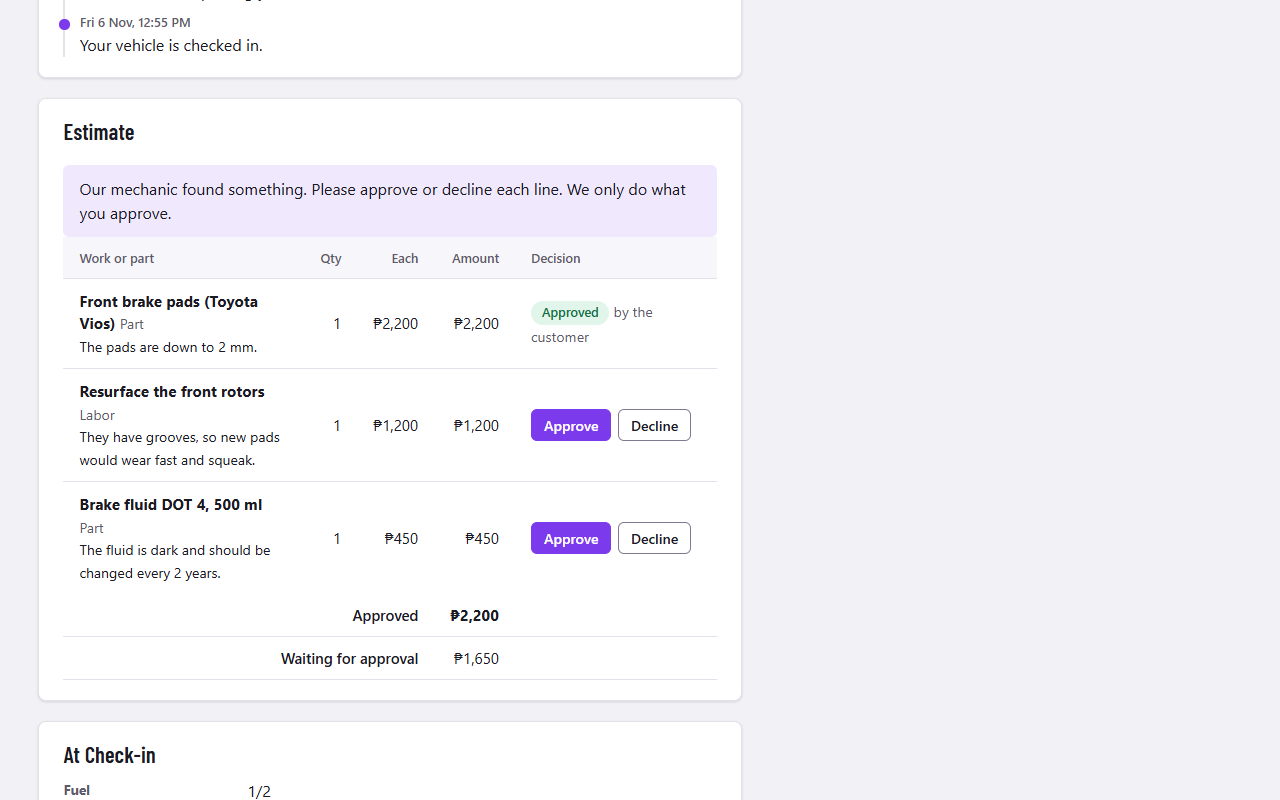
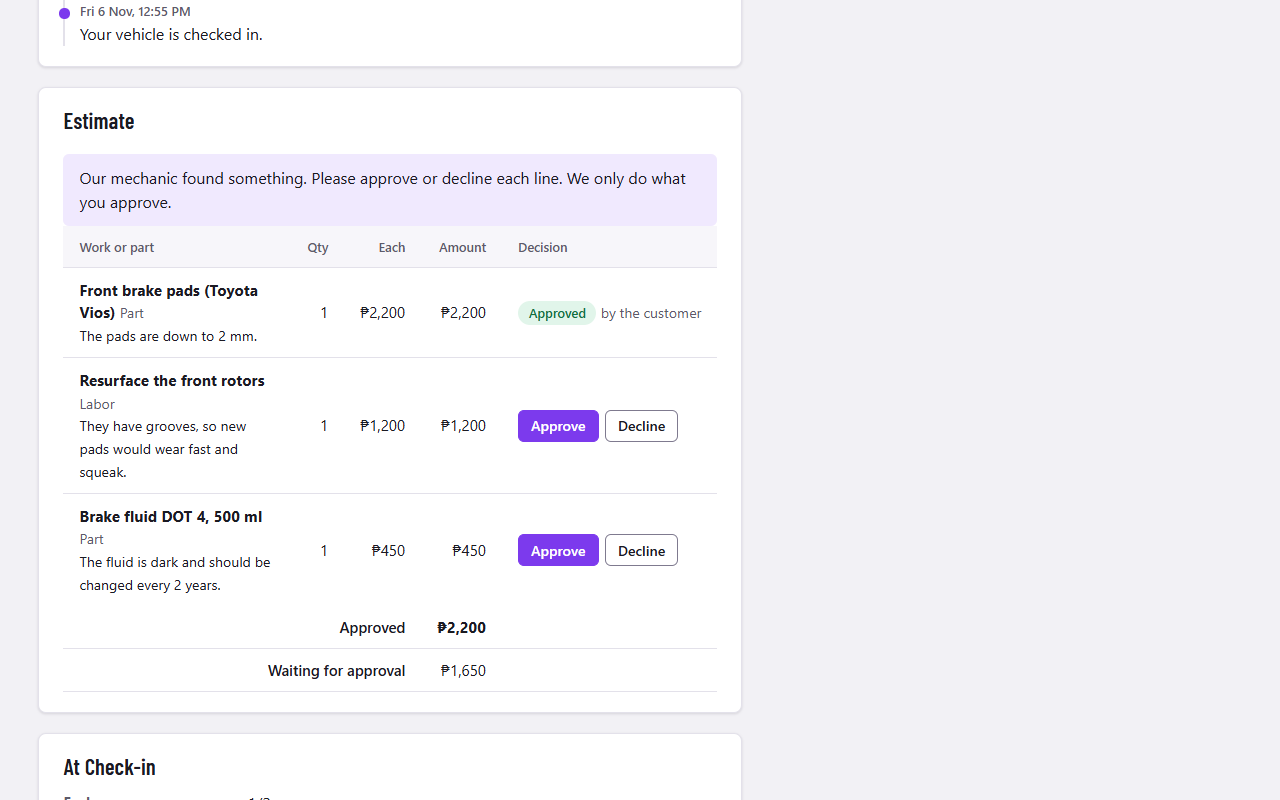
Polish the mechanics', customers' and advisors' pages too
- Pills say who must act from the viewer's side: red means you, blue
  means the other side. A customer's Other Service is blue while it's
  being checked and red when its price waits for them (it was the other
  way round, the staff's colors).
- My Garage: "New time to confirm", "Price to confirm" and the vehicle
  "Waiting for your approval" are red and open the right part of the
  booking; "Move requested" is blue. Rows light up on hover.
- The customer's waitlist page: an offered time shows the minutes left
  and the same draining bar the desk sees.
- The job page (mechanics and the desk): Remove sits on its estimate line,
  in red, and asks first, instead of a loose list of links under the
  table. A mechanic is told the front desk records phone answers.
- Service advisors see the owner's pages, so they have this PR's polish
  already.

A demo test checks each role's pages. 286 tests on SQLite.

diff --git a/shiromoto/templates/garage.html b/shiromoto/templates/garage.html
@@ -12,8 +12,8 @@
     {% set price = item.quote_status == 'priced' and item.status == 'booked' %}
     {% if new_time or price %}
       <span class="pill-group">
-        {% if new_time %}<a class="pill job-awaiting_approval" href="{{ url_for('bookings.show', ref=item.ref) }}#move-request">{{ 'New time to confirm' if item.move_by == 'shop' else 'Move requested' }}</a>{% endif %}
-        {% if price %}<a class="pill job-awaiting_approval" href="{{ url_for('bookings.show', ref=item.ref) }}#other-service">Price to confirm</a>{% endif %}
+        {% if new_time %}<a class="pill {{ 'pill-urgent' if item.move_by == 'shop' else 'pill-calm' }}" href="{{ url_for('bookings.show', ref=item.ref) }}#move-request">{{ 'New time to confirm' if item.move_by == 'shop' else 'Move requested' }}</a>{% endif %}
+        {% if price %}<a class="pill pill-urgent" href="{{ url_for('bookings.show', ref=item.ref) }}#other-service">Price to confirm</a>{% endif %}
       </span>
     {% else %}
       <span class="pill pill-{{ item.status }}">{{ STATUS_LABELS[item.status] }}</span>
@@ -99,7 +99,11 @@
                   <a class="row-title" href="{{ url_for('bookings.show', ref=item.ref) }}">{{ item.vehicle.label }}</a>
                   <span class="muted small">{{ item.lines|map(attribute='name')|join(' + ') }} · {{ item.ref }}</span>
                 </div>
-                <span class="pill job-{{ item.job.status }}">{{ JOB_LABELS[item.job.status] }}</span>
+                {% if item.job.status == 'awaiting_approval' %}
+                  <a class="pill pill-urgent" href="{{ url_for('bookings.show', ref=item.ref) }}#estimate">Waiting for your approval</a>
+                {% else %}
+                  <span class="pill job-{{ item.job.status }}">{{ JOB_LABELS[item.job.status] }}</span>
+                {% endif %}
               </li>
             {% endfor %}
           </ul>

diff --git a/shiromoto/static/style.css b/shiromoto/static/style.css
@@ -785,7 +785,7 @@ a.tl-block:hover { box-shadow: 0 0 0 2px var(--accent); color: var(--ink); text-
 .estimate tfoot th { color: var(--ink); background: none; font-size: .92rem; }
 .estimate tr.line-declined td { color: var(--ink-soft); }
 .estimate tr.line-declined strong { text-decoration: line-through; }
-.decide-form { display: flex; gap: .4rem; margin: 0; }
+.decide-form { display: inline-flex; gap: .4rem; margin: 0; vertical-align: middle; }
 .line-pill-approved { background: var(--ok-soft); color: var(--ok-ink); border-color: transparent; }
 .line-pill-declined { background: var(--surface-soft); color: var(--ink-soft); }
 .line-pill-proposed { background: var(--warning-soft); color: var(--warning-ink); border-color: transparent; }
@@ -851,3 +851,11 @@ g[data-tip]:hover .chart-bar { fill: var(--accent-hover); }
 .roomy-form { gap: 1.1rem; }
 .roomy-form .form-grid { row-gap: 1rem; }
 .low-stock li { display: flex; flex-wrap: wrap; align-items: center; justify-content: space-between; gap: .4rem 1rem; padding: .35rem 0; }
+
+/* The customer's waitlist offer, and Remove on an estimate line. */
+.offer-left-wide { width: 100%; max-width: 22rem; height: .5rem; margin: 0 0 1rem; }
+.line-remove { display: inline-flex; margin-left: .4rem; vertical-align: middle; }
+.estimate td:last-child { white-space: nowrap; }
+.line-remove .link-button { color: var(--danger); }
+/* My Garage rows light up like table rows. */
+.row-list li:has(> .row-main > a.row-title):hover { background: var(--row-hover); box-shadow: 0 0 0 .5rem var(--row-hover); border-radius: 2px; }

diff --git a/shiromoto/templates/jobs/job.html b/shiromoto/templates/jobs/job.html
@@ -31,12 +31,9 @@
   <section class="card" id="estimate">
     <h2>Estimate</h2>
     {{ estimate(job, decide_url, staff=True) }}
-    {% for line in job.lines if line.status == 'proposed' %}
-      {% if loop.first %}<p class="small muted">The customer approves from their booking page. If they say yes or no on the phone, use the buttons above.</p>{% endif %}
-      <form method="post" action="{{ url_for('jobs.remove_line', job_id=job.id, line_id=line.id) }}" class="inline-action">
-        {{ csrf() }}<button class="link-button small" type="submit">Remove “{{ line.description }}”</button>
-      </form>
-    {% endfor %}
+    {% if job.lines|selectattr('status', 'equalto', 'proposed')|list %}
+      <p class="small muted">The customer approves from their booking page.{% if decide_url %} If they say yes or no on the phone, use the buttons above.{% else %} The front desk can record a phone answer.{% endif %}</p>
+    {% endif %}
     {% for line in job.lines if line.status == 'approved' and line.part_id and not line.stock_taken %}
       <form method="post" action="{{ url_for('jobs.take_part', job_id=job.id, line_id=line.id) }}" class="inline-action">
         {{ csrf() }}<button class="button button-small button-quiet" type="submit">The part is here: take {{ line.quantity }} from stock</button>

diff --git a/shiromoto/templates/_macros.html b/shiromoto/templates/_macros.html
@@ -13,7 +13,8 @@
 {# The Other Service's price, as a pill: staff and the customer each see it from their side. #}
 {% macro quote_pill(status, for_customer=False) -%}
   {%- set customer_labels = {'to_price': 'Being checked', 'priced': 'Price to confirm', 'accepted': 'Confirmed', 'declined': 'Declined'} -%}
-  <span class="pill {{ {'to_price': 'pill-urgent', 'priced': 'pill-calm', 'accepted': 'pill-booked', 'declined': 'pill-off'}[status] }}">{{ customer_labels[status] if for_customer else QUOTE_LABELS[status] }}</span>
+  {%- set colors = {'to_price': 'pill-calm', 'priced': 'pill-urgent'} if for_customer else {'to_price': 'pill-urgent', 'priced': 'pill-calm'} -%}
+  <span class="pill {{ colors.get(status) or {'accepted': 'pill-booked', 'declined': 'pill-off'}[status] }}">{{ customer_labels[status] if for_customer else QUOTE_LABELS[status] }}</span>
 {%- endmacro %}
 
 {# Small line icons (inline SVG, drawn with CSS: no inline styles). #}

diff --git a/shiromoto/templates/waitlist.html b/shiromoto/templates/waitlist.html
@@ -10,7 +10,9 @@
     <section class="card">
       {% if entry.status == 'offered' %}
         <p class="held-when">A time opened up for you!</p>
-        <p>We're keeping it until {{ entry.offer_expires_at|local_time(shop.timezone) }}.</p>
+        {% set left = [((entry.offer_expires_at - now).total_seconds())|int, 0]|max %}
+        <p>We're keeping it until {{ entry.offer_expires_at|local_time(shop.timezone) }} ({{ left // 60 }} min left).</p>
+        <progress class="offer-left offer-left-wide" max="{{ offer_seconds }}" value="{{ left }}" data-drain aria-label="Time left to book it">{{ left // 60 }} min left</progress>
         <p><a class="button" href="{{ url_for('book.details', token=entry.hold_token) }}">See the time and book it</a></p>
       {% elif entry.status == 'waiting' %}
         <p>{{ 'Others joined before you, so they get the first times that open up.' if ahead else "You're first in line." }}

diff --git a/shiromoto/templates/_job.html b/shiromoto/templates/_job.html
@@ -42,6 +42,11 @@
                   <span class="pill line-pill-{{ line.status }}">{{ LINE_LABELS[line.status] }}</span>
                   {% if line.decided_by %}<span class="muted small">by {{ line.decided_by }}</span>{% endif %}
                 {% endif %}
+                {% if staff and line.status == 'proposed' %}
+                  <form method="post" action="{{ url_for('jobs.remove_line', job_id=job.id, line_id=line.id) }}" class="line-remove" data-confirm="Take “{{ line.description }}” off the estimate?">
+                    {{ csrf() }}<button class="link-button small" type="submit">Remove<span class="visually-hidden"> {{ line.description }}</span></button>
+                  </form>
+                {% endif %}
               </td>
             </tr>
           {% endfor %}

diff --git a/tests/test_demo.py b/tests/test_demo.py
@@ -8,7 +8,7 @@ from sqlalchemy import func, select
 
 from shiromoto import auth, db
 from shiromoto.dates import utcnow
-from shiromoto.models import Appointment, Bay, Customer, Job, Part, Service, Shop, User, Vehicle
+from shiromoto.models import Appointment, Bay, Customer, Job, Part, Service, Shop, User, Vehicle, WaitlistEntry
 
 from .conftest import CSRF, PASSWORD, find, post
 
@@ -274,3 +274,21 @@ def test_the_owners_pages_after_the_polish(app, demo):
     assert "tl-tick" in board and "Lunch break or closed" in board
     waitlist = demo.get("/desk/waitlist").get_data(as_text=True)
     assert "Offered a time" in waitlist and "data-drain" in waitlist  # Dan's offer, draining
+
+
+def test_the_other_roles_pages_after_the_polish(app, demo):
+    """Pills say who must act from the viewer's side, a mechanic removes a line on the
+    line itself, and the customer's waitlist offer drains too."""
+    shop_id = visitor(demo).shop_id
+    view_as(demo, person(app, shop_id, "mechanic"))
+    job = find(app, Job, Job.shop_id == shop_id, Job.status == "awaiting_approval")[0]
+    page = demo.get(f"/jobs/{job.id}").get_data(as_text=True)
+    assert 'class="line-remove"' in page and "The front desk can record a phone answer." in page
+    view_as(demo, person(app, shop_id, "customer"))
+    garage = demo.get("/garage").get_data(as_text=True)
+    assert "Waiting for your approval" in garage and "pill pill-urgent" in garage and "pill pill-calm" in garage
+    priced = find(app, Appointment, Appointment.shop_id == shop_id, Appointment.quote_status == "priced")[0]
+    assert 'pill pill-urgent">Price to confirm' in demo.get(f"/b/{priced.ref}").get_data(as_text=True)
+    dan = find(app, WaitlistEntry, WaitlistEntry.shop_id == shop_id, WaitlistEntry.status == "offered")[0]
+    page = demo.get(f"/waitlist/{dan.token}").get_data(as_text=True)
+    assert "min left" in page and "data-drain" in page

diff --git a/shiromoto/views/waiting.py b/shiromoto/views/waiting.py
@@ -74,7 +74,7 @@ def show(token):
         WaitlistEntry.shop_id == entry.shop_id, WaitlistEntry.status == WAITING,
         WaitlistEntry.created_at < entry.created_at).limit(1)) is not None
     return render_template("waitlist.html", entry=entry, services=waitlist.services_of(s, entry), ahead=ahead,
-                           public_page=True)
+                           now=utcnow(), offer_seconds=waitlist.OFFER_HOLD_MINUTES * 60, public_page=True)
 
 
 @bp.post("/waitlist/<token>/leave")
